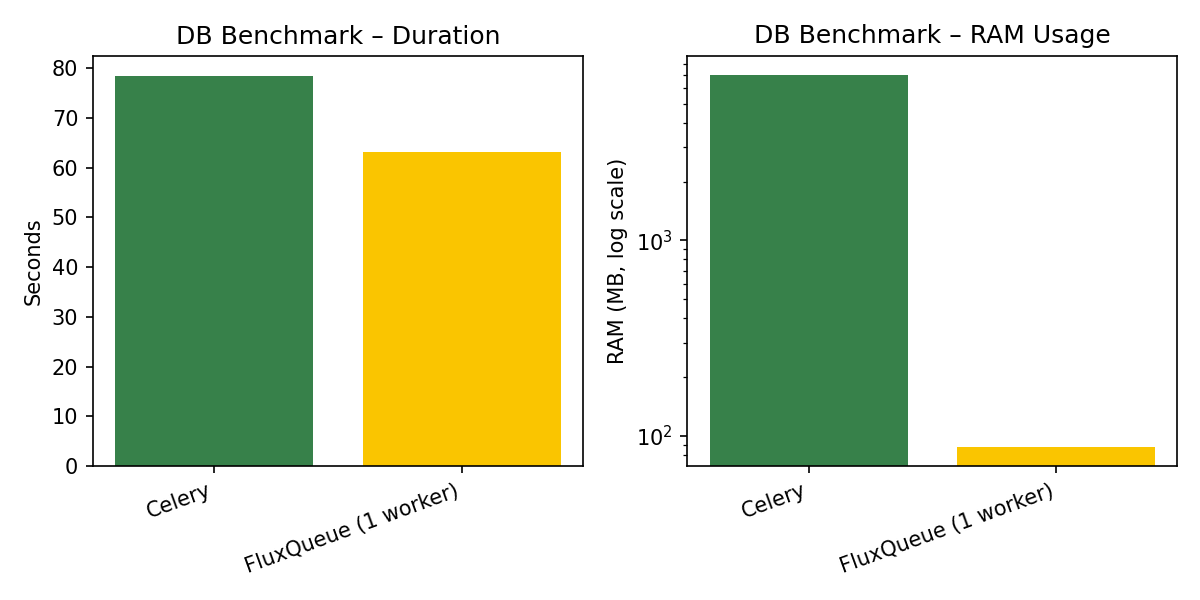
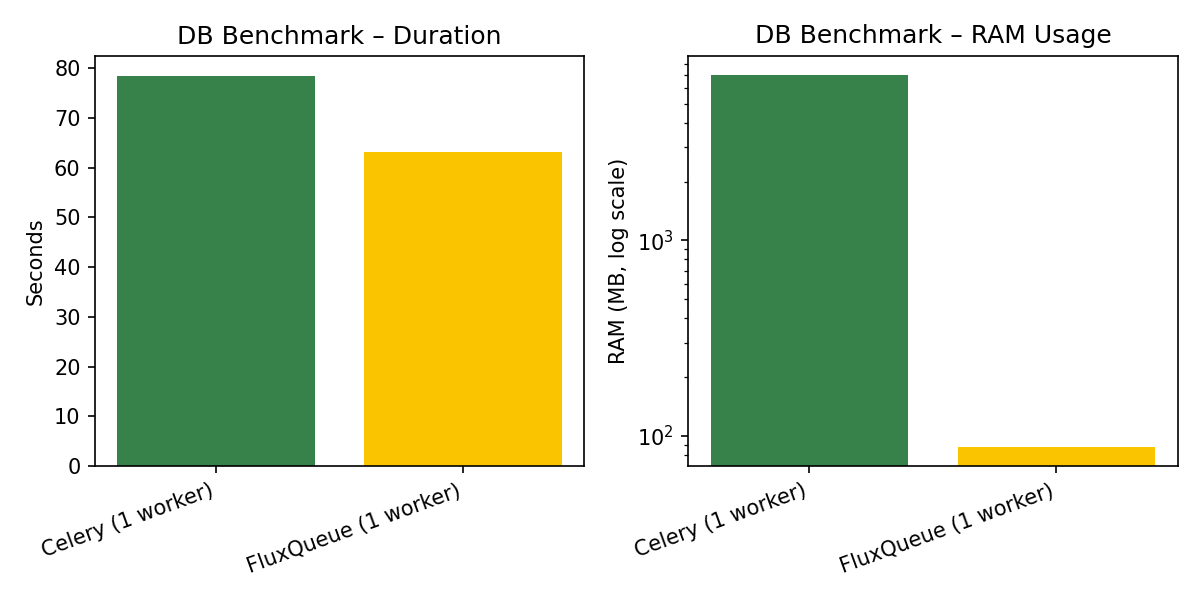
Update charts

diff --git a/scripts/plot_benchmarks.py b/scripts/plot_benchmarks.py
@@ -76,7 +76,7 @@ def plot_email_time_and_ram(output_path: str = "public/emails_overview.png"):
     - FluxQueue (1 worker)
     - FluxQueue (75 workers)
     """
-    labels = ["Celery", "FluxQueue (1 worker)", "FluxQueue (75 workers)"]
+    labels = ["Celery (1 worker)", "FluxQueue (1 worker)", "FluxQueue (75 workers)"]
     celery_color = "#37814A"
     flux_color = "#fac500ff"
 
@@ -114,7 +114,7 @@ def plot_db_time_and_ram(output_path: str = "public/db_overview.png"):
     - Celery (1 worker, 75 processes)
     - FluxQueue (1 worker, 75 internal executors)
     """
-    labels = ["Celery", "FluxQueue (1 worker)"]
+    labels = ["Celery (1 worker)", "FluxQueue (1 worker)"]
     celery_color = "#37814A"
     flux_color = "#fac500ff"
 
